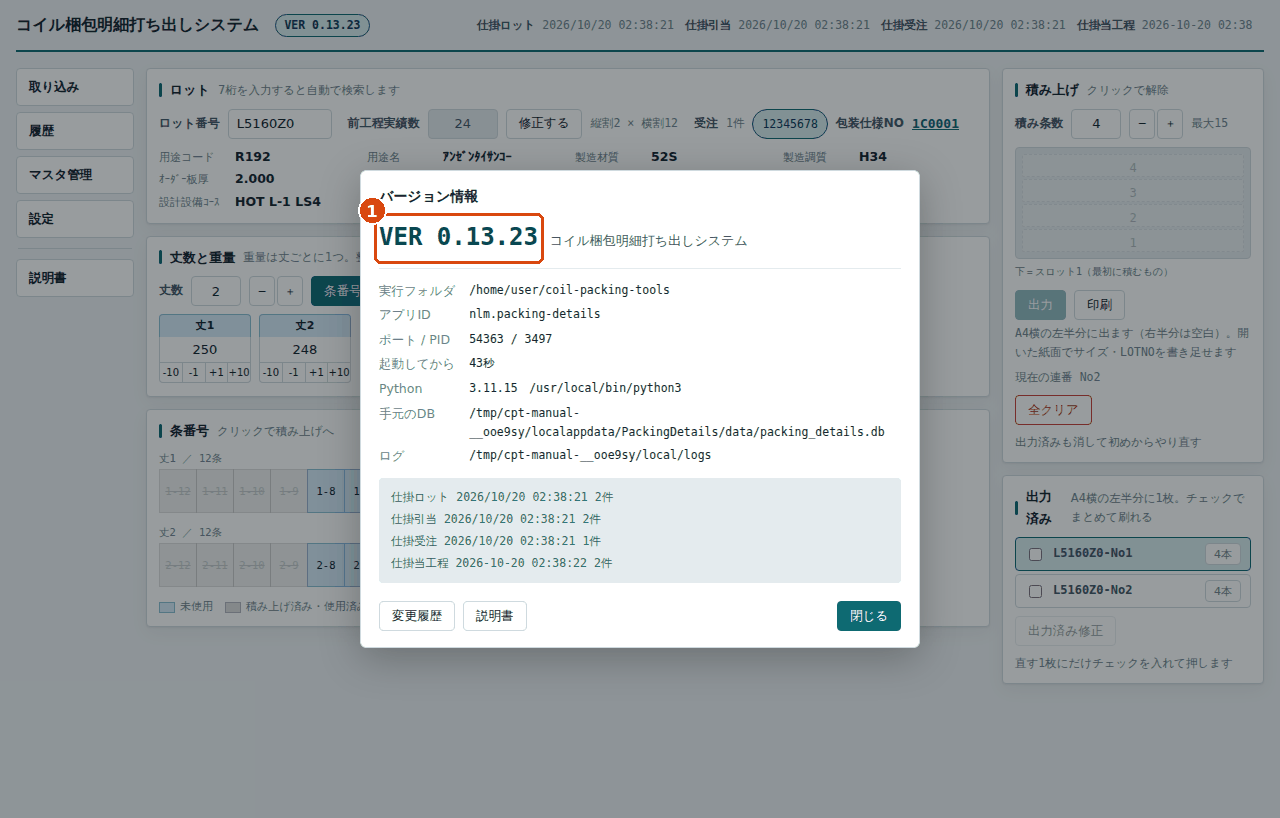
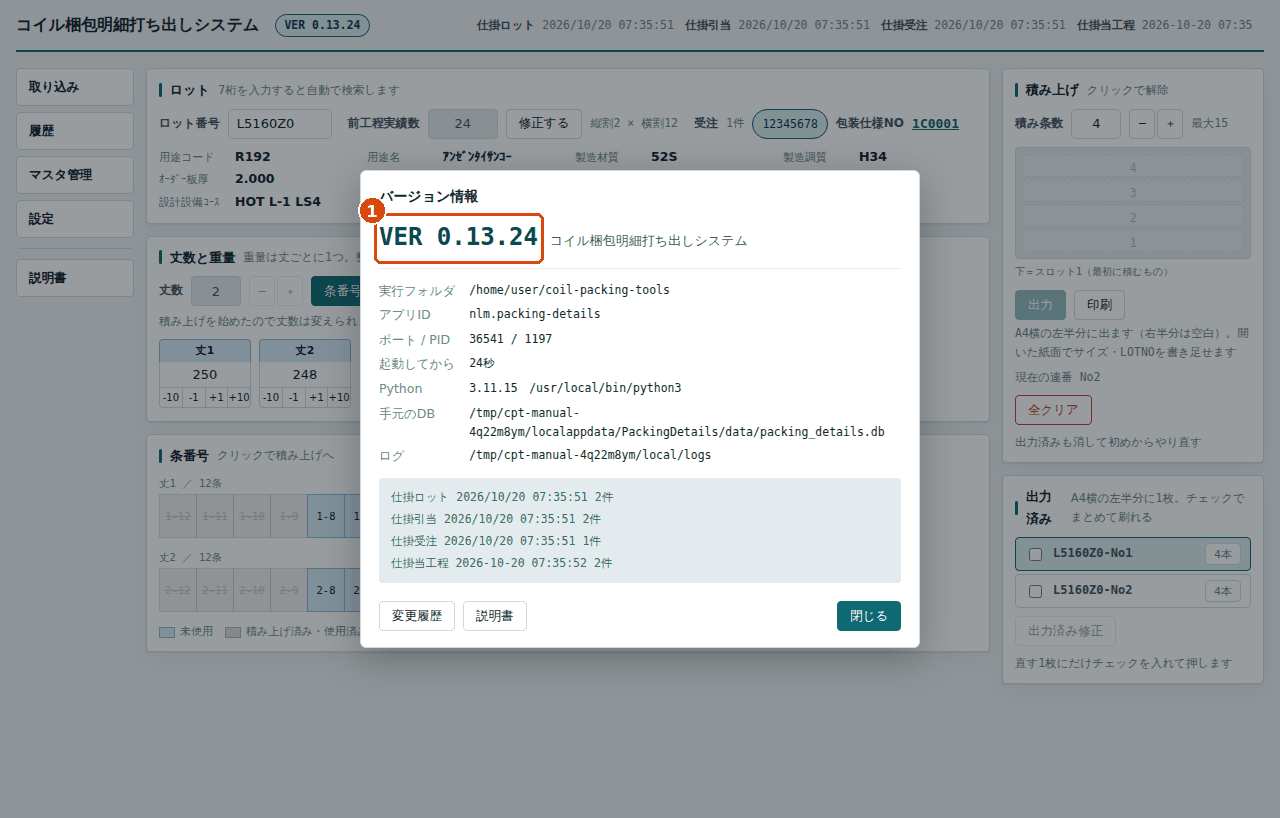
梱包明細: 積み上げを始めたら丈数を変えられないように・全クリアの残り方を試験で固めた(VER 0.13.24 / 統合 1.2.24)
- 出力済みがある・積み上げにコイルがある・使用済みのコイルがあるロットは丈数を変えられない
  (画面は欄を止めて「全クリアしてから」と案内、サーバも 409 jou_su_locked)。全クリアで解ける
- 全クリア → 出し直し → 出力済み修正(2回) → もう一度全クリア の残り方を試験に:
  効いている紙だけ取り消し、作り直し済みは作り直しのまま、前の回の取り消し・ロット切替で
  片付いた紙には触らない
- 履歴から作り直した紙面の断り書き「新しい紙があります」を「同じNoの新しい紙が履歴にあります」に
- 通し試験・説明書・ツール文書・変更履歴を更新

Claude-Session: https://claude.ai/code/session_01SzANNFLBT4btJLa5AqpmH3

diff --git a/templates/manual/details.html b/templates/manual/details.html
@@ -47,7 +47,7 @@
 <h3>手順2 重量を入れる</h3>
 {{ m.fig("details-weights", "丈数と、丈ごとの重量を入れて「条番号表示」を押します。") }}
 <ol class="steps">
-  <li>{{ m.n(1) }}<b>丈数</b>:ふつうは自動で入ります(縦割数)。{{ m.b('−') }} {{ m.b('＋') }} で直せます。</li>
+  <li>{{ m.n(1) }}<b>丈数</b>:ふつうは自動で入ります(縦割数)。{{ m.b('−') }} {{ m.b('＋') }} で直せます。<b>積み上げを始めたら変えられません</b>(変えるときは {{ m.b('全クリア') }} してから)。</li>
   <li>{{ m.n(2) }}<b>丈ごとの重量</b>を整数で入れます。下の {{ m.b('-10') }} {{ m.b('-1') }} {{ m.b('+1') }} {{ m.b('+10') }} でも増減できます。</li>
   <li>{{ m.n(3) }}{{ m.b('条番号表示') }} を押します。条番号と積み上げの欄が出ます。</li>
 </ol>

diff --git a/modules/packing_details/app/static/js/meisai.js b/modules/packing_details/app/static/js/meisai.js
@@ -314,8 +314,11 @@ function renderEdit(state) {
   $("editBanner").hidden = !edit;
   $("btnOutput").textContent = edit ? "修正して出力" : "出力";
   $("btnStrands").disabled = Boolean(edit);
-  $("jouSu").disabled = Boolean(edit);
-  document.querySelectorAll("[data-jou]").forEach((b) => { b.disabled = Boolean(edit); });
+  // 丈数は、修正中か、積み上げを始めたら変えられない(VER 0.13.24。変えるときは全クリア)
+  const jouLocked = Boolean(edit) || Boolean(state.jou_su_locked);
+  $("jouSu").disabled = jouLocked;
+  document.querySelectorAll("[data-jou]").forEach((b) => { b.disabled = jouLocked; });
+  $("jouLockNote").hidden = !(state.jou_su_locked && !edit);
   if (!edit) return;
   $("editTitle").textContent = `No${edit.no}を修正中`;
   $("editBefore").textContent = `修正前: ${edit.keys.join(" ")}`;

diff --git a/modules/packing_details/app/templates/meisai.html b/modules/packing_details/app/templates/meisai.html
@@ -114,6 +114,8 @@
       <button type="button" id="btnReverse">反転</button>
       <button type="button" id="btnHaiki">廃棄選択</button>
     </div>
+    {# 積み上げを始めたら丈数は変えられない(VER 0.13.24) #}
+    <div class="stamp" id="jouLockNote" hidden style="margin:-2px 0 8px">積み上げを始めたので丈数は変えられません。変えるときは「全クリア」してから。</div>
     <div class="weights" id="weights"></div>
   </section>
 

diff --git a/modules/packing_details/tests/test_web.py b/modules/packing_details/tests/test_web.py
@@ -800,6 +800,179 @@ class ClearAllTest(unittest.TestCase):
         self.assertEqual(_post(self.client, "/api/clear-all", {"confirm": True}).status_code, 409)
 
 
+class IrregularClearTest(unittest.TestCase):
+    """全クリア → 出し直し → 出力済み修正 → もう一度全クリア の残り方(VER 0.13.24・現場の求め)。
+
+    決まり: 全クリアは**その時点で効いている紙**(出力済みの一覧にある紙)だけを「取り消し」にする。
+    すでに作り直された紙は「作り直し」のまま(そのときに起きたことがそれだから)。前の回で
+    取り消した紙には触らない(二重に印を付けない)。
+    """
+
+    def setUp(self):
+        self.client, self.conn = _client(self)
+        _seed(self.conn)
+        _post(self.client, "/api/lot", {"lot_no": "L5160Z0"})
+        _post(self.client, "/api/weights", {"weights": ["250", "248"]})
+        _post(self.client, "/api/strands", {})
+
+    def _out(self, keys):
+        _post(self.client, "/api/stack-max", {"value": str(len(keys))})
+        for key in keys:
+            _post(self.client, "/api/stack", {"key": key})
+        body = _post(self.client, "/api/output", {"confirm": True}).get_json()
+        self.assertTrue(body.get("ok"), body)
+        return body["seq_no"]
+
+    def _edit(self, no, drop_slot, add_key):
+        _post(self.client, "/api/edit-output", {"no": no})
+        _post(self.client, "/api/unstack", {"slot_no": drop_slot})
+        _post(self.client, "/api/stack", {"key": add_key})
+        body = _post(self.client, "/api/output", {"confirm": True}).get_json()
+        self.assertTrue(body.get("ok"), body)
+
+    def _clear(self):
+        body = _post(self.client, "/api/clear-all", {"confirm": True}).get_json()
+        self.assertTrue(body.get("ok"), body)
+        _post(self.client, "/api/weights", {"weights": ["250", "248"]})
+        _post(self.client, "/api/strands", {})
+
+    def _papers(self):
+        rows = self.conn.execute(
+            "SELECT 送信ID, No, 状態, 変更回数, 本数 FROM 明細履歴 ORDER BY 出力日時, rowid").fetchall()
+        coils = {}
+        for r in self.conn.execute("SELECT 送信ID, 副番 FROM 明細履歴_副番 ORDER BY 順"):
+            coils.setdefault(r[0], []).append(r[1])
+        return [(r["No"], r["状態"], " ".join(coils.get(r["送信ID"], [])), r["変更回数"],
+                 r["送信ID"]) for r in rows]
+
+    def test_全クリアして直したものを修正し_もう一度全クリア(self):
+        # 1回目: No1〜No3 を出して全クリア
+        for keys in (("1-12", "2-12"), ("1-11", "2-11"), ("1-10", "2-10")):
+            self._out(keys)
+        self._clear()
+        round1 = {p[4]: p[3] for p in self._papers()}
+        # 2回目: No1・No2 を出し、No1 を2回修正して、もう一度全クリア
+        self.assertEqual(self._out(("1-12", "2-12")), 1)      # 1回目のコイルも使える・No1から
+        self.assertEqual(self._out(("1-11", "2-11")), 2)
+        self._edit(1, 2, "2-9")                                 # 1-12 2-9
+        self._edit(1, 1, "1-9")                                 # 1-9 2-9
+        self._clear()
+        # 3回目: No1 を出す
+        self.assertEqual(self._out(("1-12", "2-12")), 1)
+
+        papers = self._papers()
+        self.assertEqual([(no, st, c) for no, st, c, _, _ in papers], [
+            (1, "取り消し", "1-12 2-12"), (2, "取り消し", "1-11 2-11"), (3, "取り消し", "1-10 2-10"),
+            (1, "作り直し", "1-12 2-12"), (2, "取り消し", "1-11 2-11"),
+            (1, "作り直し", "1-12 2-9"), (1, "取り消し", "1-9 2-9"),
+            (1, "有効", "1-12 2-12"),
+        ])
+        # 前の回で取り消した紙には、2回目の全クリアで触らない(変更回数が増えない)
+        for sid, count in round1.items():
+            self.assertEqual([p[3] for p in papers if p[4] == sid], [count])
+        # 画面: 3回目の No1 だけが出力済み。連番は1
+        self.assertEqual(history_repo.current_seq(self.conn), 1)
+        self.assertEqual([o.seq_no for o in meisai_service.list_outputs(self.conn, "L5160Z0")], [1])
+
+        # 集計(CSV): 数えるのは有効の1枚だけ。作り直し2・取り消し5
+        from modules.packing_details.meisai import slip_history
+        counts = {"有効": 0, "作り直し": 0, "取り消し": 0}
+        for _, st, _, _, _ in papers:
+            counts[st] += 1
+        self.assertEqual(counts, {"有効": 1, "作り直し": 2, "取り消し": 5})
+        self.assertEqual(slip_history.STATE_CANCELLED, "取り消し")
+
+    def test_呼び出した紙面の断り書き(self):
+        self._out(("1-12", "2-12"))
+        self._edit(1, 2, "2-9")
+        self._clear()
+        ids = ",".join(p[4] for p in self._papers())
+        res = self.client.get(f"/report/history?ids={ids}&t={TOKEN}", headers=HEADERS)
+        self.assertEqual(res.status_code, 200, res.get_data(as_text=True)[:300])
+        html = res.get_data(as_text=True)
+        self.assertIn("このあと作り直されています（同じNoの新しい紙が履歴にあります）", html)
+        self.assertIn("このあと全クリアで取り消されています", html)
+
+    def test_ロットを切り替えて戻った紙は全クリアで取り消さない(self):
+        """ロット切替で片付いた紙は、刷って使った紙(有効のまま)。戻って全クリアしても触らない。"""
+        self._out(("1-12", "2-12"))
+        _seed(self.conn, lot="L7110P0")
+        _post(self.client, "/api/lot", {"lot_no": "L7110P0", "confirm": True})
+        _post(self.client, "/api/lot", {"lot_no": "L5160Z0", "confirm": True})
+        _post(self.client, "/api/weights", {"weights": ["250", "248"]})
+        _post(self.client, "/api/strands", {})
+        self._out(("1-11", "2-11"))
+        self._clear()
+        self.assertEqual([(no, st) for no, st, _, _, _ in self._papers()],
+                         [(1, "有効"), (1, "取り消し")])
+
+    def test_修正中に全クリア(self):
+        self._out(("1-12", "2-12"))
+        _post(self.client, "/api/edit-output", {"no": 1})
+        _post(self.client, "/api/unstack", {"slot_no": 1})
+        self._clear()
+        self.assertEqual([(no, st) for no, st, _, _, _ in self._papers()], [(1, "取り消し")])
+        state = _post(self.client, "/api/stack-max", {"value": "1"}).get_json()["state"]
+        self.assertIsNone(state["edit"])
+
+
+class JouSuLockTest(unittest.TestCase):
+    """積み上げを始めたロットは丈数を変えられない(VER 0.13.24・現場の求め)。変えるときは全クリア。"""
+
+    def setUp(self):
+        self.client, self.conn = _client(self)
+        _seed(self.conn)
+        _post(self.client, "/api/lot", {"lot_no": "L5160Z0"})
+        _post(self.client, "/api/weights", {"weights": ["250", "248"]})
+        _post(self.client, "/api/strands", {})
+        _post(self.client, "/api/stack-max", {"value": "2"})
+
+    def _jou(self, value="3"):
+        return _post(self.client, "/api/jou-su", {"value": value})
+
+    def test_積む前なら変えられる(self):
+        body = self._jou().get_json()
+        self.assertTrue(body["ok"])
+        self.assertFalse(body["state"]["jou_su_locked"])
+        self.assertEqual(body["state"]["jou_su"], 3)
+
+    def test_1本でも積んだら断る(self):
+        state = _post(self.client, "/api/stack", {"key": "1-12"}).get_json()["state"]
+        self.assertTrue(state["jou_su_locked"])
+        res = self._jou()
+        self.assertEqual(res.status_code, 409)
+        self.assertEqual(res.get_json()["error"]["code"], "jou_su_locked")
+        self.assertIn("全クリア", res.get_json()["error"]["message"])
+        self.assertEqual(session.current().jou_su, 2)
+
+    def test_積んだものを外しても_出力済みがあれば断る(self):
+        _post(self.client, "/api/stack", {"key": "1-12"})
+        _post(self.client, "/api/stack", {"key": "2-12"})
+        _post(self.client, "/api/output", {"confirm": True})
+        self.assertEqual(self._jou().status_code, 409)
+
+    def test_開き直して途中経過から戻しても断る(self):
+        _post(self.client, "/api/stack", {"key": "1-12"})
+        _post(self.client, "/api/stack", {"key": "2-12"})
+        _post(self.client, "/api/output", {"confirm": True})
+        session.clear()
+        state = _post(self.client, "/api/lot", {"lot_no": "L5160Z0"}).get_json()["state"]
+        self.assertTrue(state["jou_su_locked"])
+        self.assertEqual(self._jou().status_code, 409)
+
+    def test_全クリアすれば変えられる(self):
+        _post(self.client, "/api/stack", {"key": "1-12"})
+        _post(self.client, "/api/stack", {"key": "2-12"})
+        _post(self.client, "/api/output", {"confirm": True})
+        state = _post(self.client, "/api/clear-all", {"confirm": True}).get_json()["state"]
+        self.assertFalse(state["jou_su_locked"])
+        self.assertTrue(self._jou().get_json()["ok"])
+
+    def test_廃棄だけなら変えられる(self):
+        _post(self.client, "/api/discard", {"key": "1-1"})
+        self.assertTrue(self._jou().get_json()["ok"])
+
+
 class SettingsTest(unittest.TestCase):
     """設定。"""
 

diff --git a/modules/packing_details/app/routes/meisai.py b/modules/packing_details/app/routes/meisai.py
@@ -175,6 +175,8 @@ def _state(conn) -> dict:
         "slots": list(board.slots) if board else [],
         "reversed": board.reversed_view if board else False,
         "complete": board.is_complete if board else False,
+        # 積み上げを始めたら丈数は変えられない(VER 0.13.24)。変えるときは全クリア
+        "jou_su_locked": bool(board and _stacking_started(conn, board)),
         # 出力済みの修正中なら、そのNoと修正前の積み順(VER 0.13.23)
         "edit": ({"no": board.edit_no, "keys": list(board.edit_keys)}
                  if board is not None and board.editing else None),
@@ -218,6 +220,18 @@ def _state(conn) -> dict:
             for o in meisai_service.list_outputs(conn, board.lot_no)]
 
     return state
+
+
+def _stacking_started(conn, board) -> bool:
+    """そのロットで積み上げを始めたか(VER 0.13.24・現場の求め)。
+
+    出力済みがある・積み上げにコイルがある・使用済みのコイルがある(途中経過から戻した
+    ものを含む)のどれか。始めたら丈数は変えさせない ── 丈数を変えると条番号を配り直す
+    ので、積んだ副番・出力済みの紙と食い違う。変えるときは全クリアしてから。
+    """
+    if any(board.slots) or board.restored_used:
+        return True
+    return bool(board.lot_no and meisai_service.list_outputs(conn, board.lot_no))
 
 
 def _jou_su_note(lot) -> str:
@@ -336,6 +350,9 @@ def set_jou_su():
 
     VBA は丈数が変わると**重量欄・条番号・積み上げ・廃棄をすべて
     作り直す**。同じことをする。
+
+    **積み上げを始めたら断る(VER 0.13.24)。** 作り直すと、積んだ副番・出力済みの紙と
+    条番号が食い違う。変えるときは全クリアしてから。
     """
     conn = get_db()
     board = session.current()
@@ -345,6 +362,11 @@ def set_jou_su():
     refused = _editing_refusal(board, "丈数の変更")
     if refused:
         return refused
+    if _stacking_started(conn, board):
+        return jsonify(error_body(
+            "jou_su_locked",
+            "積み上げを始めたロットは丈数を変えられません。"
+            "丈数を変えるときは「全クリア」してからにしてください。", "value")), 409
     raw = str((request.get_json(silent=True) or {}).get("value", "")).strip()
     if not (raw.isascii() and raw.isdigit()):
         return jsonify(error_body("bad_number", "丈数を入力してください。",

diff --git a/modules/packing_details/meisai/report.py b/modules/packing_details/meisai/report.py
@@ -423,7 +423,9 @@ def render_history(slips: list[dict], *, current_qa: str, source: str = "shared"
              "mixed": "全ラインの履歴(一部はこの PC の履歴)"}.get(source, "履歴")
     notes = [f"{where}から作り直した紙面です（{len(outputs)}枚）。記録のとおりに組んでいます。"]
     if replaced:
-        notes.append(f"{'・'.join(replaced)} は、このあと作り直されています（新しい紙があります）。")
+        # 新しい紙も、そのあと全クリアで取り消されていることがある(VER 0.13.24 で文言を直した)
+        notes.append(f"{'・'.join(replaced)} は、このあと作り直されています"
+                     "（同じNoの新しい紙が履歴にあります）。")
     if cancelled:
         notes.append(f"{'・'.join(cancelled)} は、このあと全クリアで取り消されています"
                      "（この紙は使いません）。")

diff --git a/tools/e2e_scenarios.py b/tools/e2e_scenarios.py
@@ -439,6 +439,11 @@ def details_edit_output(fr):
           and fr.locator("#outputs .output").count() == 2 and not visible(fr, "#editBanner"),
           text(fr, "#notice"))
     fr.uncheck("#pick2")
+    # 積み上げを始めたロットは丈数を変えられない(VER 0.13.24)
+    check("梱包明細: 積み上げを始めたら丈数は変えられない(全クリアの案内が出る)",
+          fr.evaluate("document.querySelector('#jouSu').disabled")
+          and visible(fr, "#jouLockNote") and "全クリア" in text(fr, "#jouLockNote"),
+          text(fr, "#jouLockNote"))
 
 
 # ---- ペナラベル ------------------------------------------------------

diff --git a/docs/ツール文書/11_梱包明細_仕様.md b/docs/ツール文書/11_梱包明細_仕様.md
@@ -1,6 +1,6 @@
 # 梱包明細 仕様
 
-対象の版: 梱包明細 VER 0.13.23(コイル梱包ツール 1.2.23)
+対象の版: 梱包明細 VER 0.13.24(コイル梱包ツール 1.2.24)
 
 この文書は、機能「梱包明細(コイル梱包明細打ち出しシステム)」が何をするか・どこのデータを使うか・どんな決まりで判定するかをまとめたものです。
 コードは `modules/packing_details/` にあります。現場向けの使い方は [12_梱包明細_操作説明.md](12_梱包明細_操作説明.md)、作りの考え方は [13_梱包明細_思想とモード.md](13_梱包明細_思想とモード.md) を見てください。
@@ -158,6 +158,7 @@ VBA と同じ順で確かめます。
 - 配り直すとスロットは空になり、**出力していない使用済みは消えます**。**出力済みのコイルは使用済みのまま**です(VER 0.13.23。以前はすべて消え、出したコイルを次の No へまた積めた)。廃棄は、まだある条番号のぶんだけ残ります
 - 出力済みの修正中は断ります(409 `editing`)
 - 丈数を変えると、重量・条番号・積み上げ・廃棄をすべて作り直します(`/api/jou-su`。出力済みの修正中は断る)
+- **積み上げを始めたロットは丈数を変えられません**(VER 0.13.24)。出力済みがある・積み上げにコイルがある・使用済みのコイルがある(途中経過から戻したものを含む)ときは 409 `jou_su_locked`。画面の状態 `jou_su_locked` で欄と −/＋ を止めて案内を出す。変えるときは全クリア
 - **反転**(`/api/reverse`)は表示の左右を入れ替えるだけで、番号も状態も変わりません
 
 ### 4.4 積み上げ(`/api/stack-max` `/api/stack` `/api/unstack`)
@@ -228,6 +229,7 @@ VBA と同じ順で確かめます。
 
 - 消すもの(ロット切替の片付け `session.close_lot` と同じ 4 つ): そのロットの出力済み・副番履歴・連番(次は No1)・途中経過(条番号・廃棄)。印刷済は 1 に戻ります
 - **明細の履歴は消しません。** そのロットの紙に「取り消し」の印を付けます(刷って現場へ出た紙を追えるように)。CSV の集計では枚数に数えず、「取り消した枚数」に出します
+- 印を付けるのは **その時点で出力済みの一覧にある紙だけ** です。それより前に出力済み修正で作り直された紙は「作り直し」のまま、前の全クリアで取り消した紙・ロット切替で片付いた紙には触りません(VER 0.13.24 で試験に固めた)
 - 消したあと、台帳から開き直します(丈数・前工程実績数は台帳の値に戻り、条番号表示からやり直す)。修正中でも全クリアできます
 
 **副番履歴クリアは外しました(VER 0.13.23)。** 副番履歴だけ消すと、No1〜No3 で使ったコイルを No4 へまた積めてしまい、ミスがミスを呼ぶためです(現場の判断)。
@@ -416,6 +418,7 @@ VBA と同じ順で確かめます。
 | 409 | `screen_taken` | 持ち主でない画面からの操作(引き継がれた古いタブ) |
 | 409 | `no_lot` `no_strands` | ロットを開いていない・条番号が出ていない |
 | 409 | `bad_edit` | 作り直された明細への書き足し |
+| 409 | `jou_su_locked` | 積み上げを始めたロットで丈数を変えようとした(全クリアしてから) |
 | 409 | `editing` | 出力済みの修正中に、条番号表示・丈数の変更・もう 1 枚の修正をしようとした |
 | 503 | `write_failed` | 手元の DB に書けなかった(待つのはまとまりごとに最大 13.5 秒) |
 | 503 | `shared_unreachable` | 共有に届かないので右上の文字・管理者パスワードを変えられない |

diff --git a/docs/ツール文書/13_梱包明細_思想とモード.md b/docs/ツール文書/13_梱包明細_思想とモード.md
@@ -1,6 +1,6 @@
 # 梱包明細 思想とモード
 
-対象の版: 梱包明細 VER 0.13.23(コイル梱包ツール 1.2.23)
+対象の版: 梱包明細 VER 0.13.24(コイル梱包ツール 1.2.24)
 
 梱包明細を「なぜこの作りにしたか」と、「ツールの中にどんな状態・モードがあるか」をまとめます。
 根拠は、コードのコメント(`modules/packing_details/` の各ファイルの冒頭)・`modules/packing_details/README.md`・`modules/packing_details/docs/変更履歴.md` です。
@@ -31,6 +31,7 @@
 | 「はい/いいえ」は 2 往復にする | Web は 1 往復で尋ねられないので、まず確認事項を返し、了解されたら `confirm` 付きで呼び直す。**何を尋ねるかの判断は VBA と同じ** |
 | 「出力済み修正」を足し、「No指定」「副番履歴クリア」を外す | VBA には出し直し専用のボタンが無く、「No指定」(重複を確かめずに同じ番号へ上書き)で出し直していた。出したコイルは使用済みでほどけないので、積み直すには「副番履歴クリア」か「条番号表示」で使用済みをほどくしかなく、**ほかの No のコイルまでほどけて二重に積めた**。出し直しを 1 つの操作にまとめ、ほかの No のコイルは積めないようにした(VER 0.13.23・現場の判断) |
 | 「全クリア」を足す | やり直すときは途中から直すより初めからのほうがよいことが多い(現場)。出力済み・副番履歴・連番・途中経過をまとめて消す。紙の履歴は消さずに「取り消し」と残す(VER 0.13.23) |
+| 積み上げを始めたら丈数を変えられない | 丈数を変えると条番号を配り直し、積んだ副番・出した紙と食い違う。変えるときは全クリアしてから(VER 0.13.24・現場の求め) |
 | 条番号を再表示しても、出力済みのコイルは使用済みのまま | VBA は再表示で使用済みが全部ほどけ、副番履歴クリアと同じく出したコイルを次の No へまた積めた(VER 0.13.23) |
 
 取り込みでは、取り込み元が全列文字(`オーダー板丈` は `'0'` ではなく `'0.0'`)なので、VBA の条件をそのまま当てると 1 件も一致しません。取り込むときに数へ直すことを README は「**この変換が移植の要点です**」と書いています。

diff --git a/docs/ツール文書/12_梱包明細_操作説明.md b/docs/ツール文書/12_梱包明細_操作説明.md
@@ -1,6 +1,6 @@
 # 梱包明細 操作説明
 
-対象の版: 梱包明細 VER 0.13.23(コイル梱包ツール 1.2.23)
+対象の版: 梱包明細 VER 0.13.24(コイル梱包ツール 1.2.24)
 
 ロットを開いて重量を入れ、積む順にコイルを押して **梱包明細表** を出す手順です。
 統合画面の上の帯の「説明書」(写真入り。`templates/manual/details.html`)と同じ流れで書いています。決まりの細かいところは [11_梱包明細_仕様.md](11_梱包明細_仕様.md) を見てください。
@@ -128,6 +128,8 @@
 
 - **No指定** と **副番履歴クリア** は VER 0.13.23 で外しました。副番履歴だけ消すと、No1〜No3 で使ったコイルを No4 へまた積めてしまうためです。1 枚の間違いは出力済み修正、何枚も崩れたときは全クリアを使います
 - 条番号を出し直しても、出力済みのコイルは使用済みのままです(VER 0.13.23 から)
+- **積み上げを始めたロットは丈数を変えられません**(VER 0.13.24 から)。丈数の欄が止まり「変えるときは「全クリア」してから」と出ます
+- 全クリアで「取り消し」になるのは、その時点で出力済みにある紙だけです。前に作り直された紙は「作り直し」、前の全クリアで取り消した紙は「取り消し」のまま残ります
 - **別のロットへ切り替えると**、前のロットの出力済み・副番の記録・連番・途中経過は消えます(明細の履歴には残ります)
 
 ## 6. 台帳を取り込む
